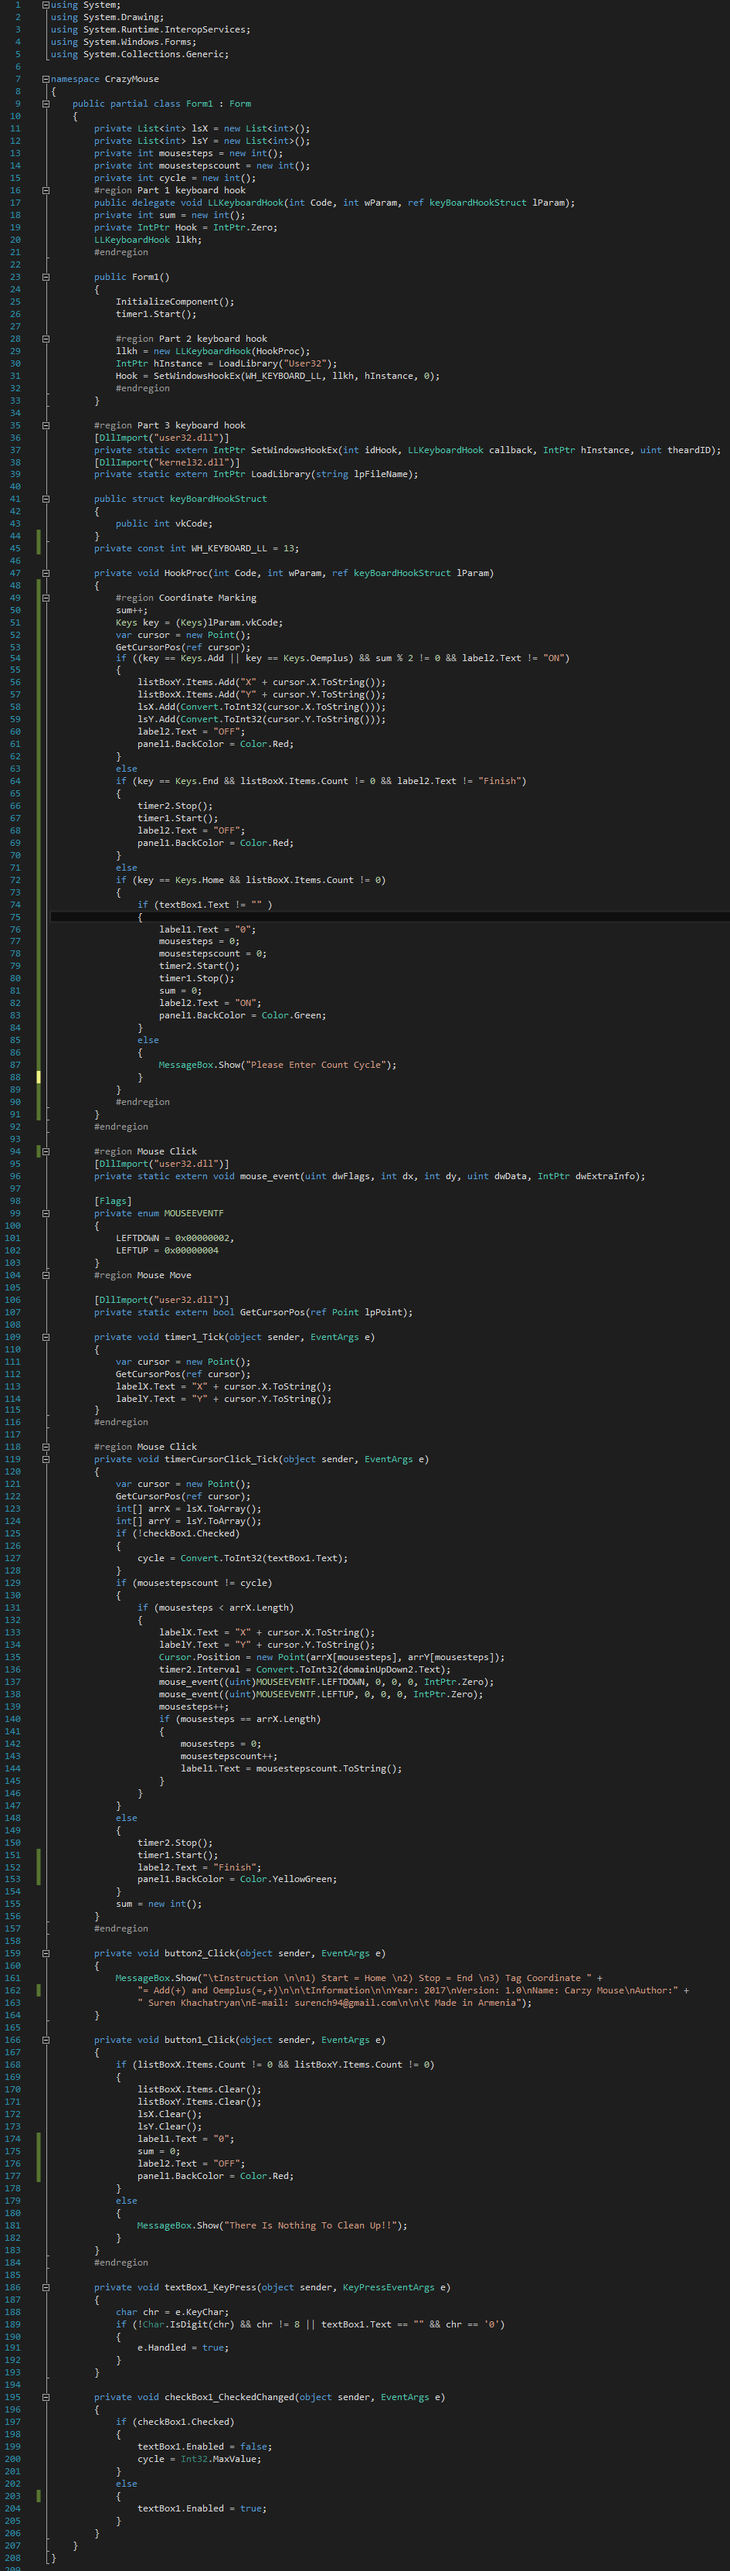
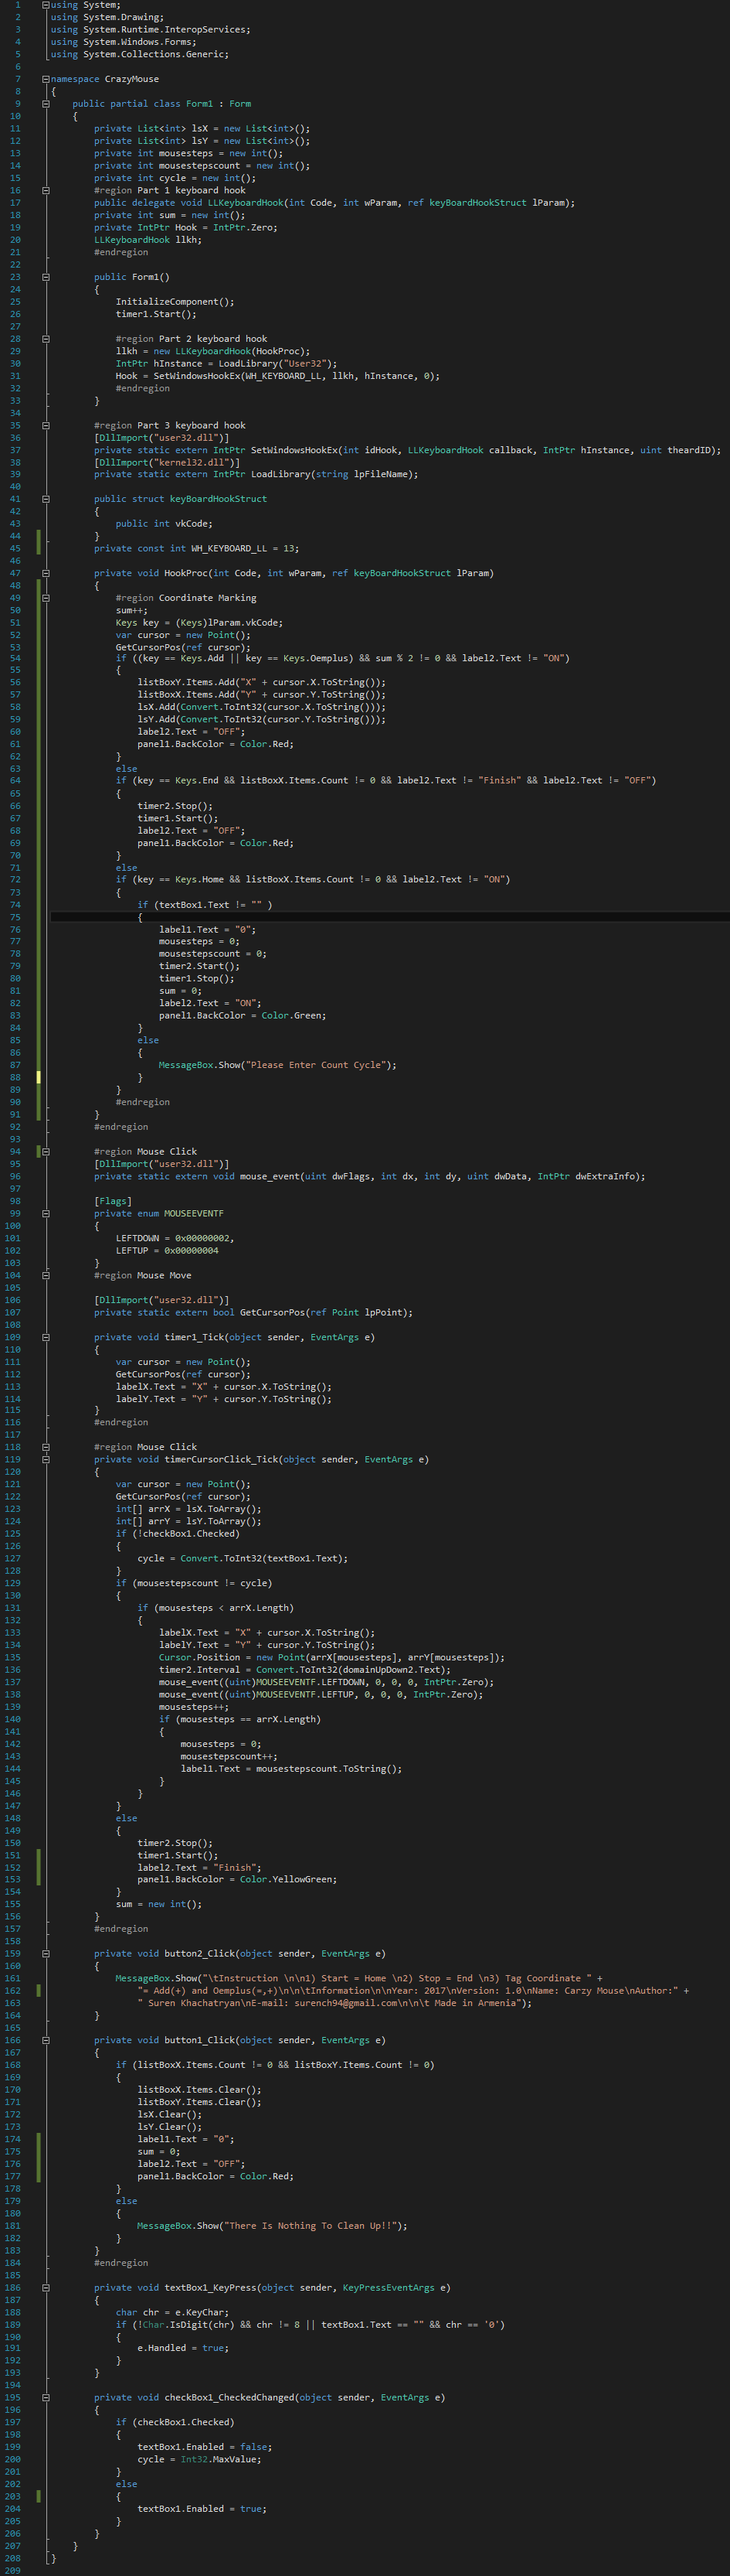
Crazy Mouse

diff --git a/CrazyMouse/CrazyMouse/Form1.cs b/CrazyMouse/CrazyMouse/Form1.cs
@@ -61,7 +61,7 @@ namespace CrazyMouse
                 panel1.BackColor = Color.Red;
             }
             else
-            if (key == Keys.End && listBoxX.Items.Count != 0 && label2.Text != "Finish")
+            if (key == Keys.End && listBoxX.Items.Count != 0 && label2.Text != "Finish" && label2.Text != "OFF")
             {
                 timer2.Stop();
                 timer1.Start();
@@ -69,7 +69,7 @@ namespace CrazyMouse
                 panel1.BackColor = Color.Red;
             }
             else
-            if (key == Keys.Home && listBoxX.Items.Count != 0)
+            if (key == Keys.Home && listBoxX.Items.Count != 0 && label2.Text != "ON")
             {
                 if (textBox1.Text != "" )
                 {
